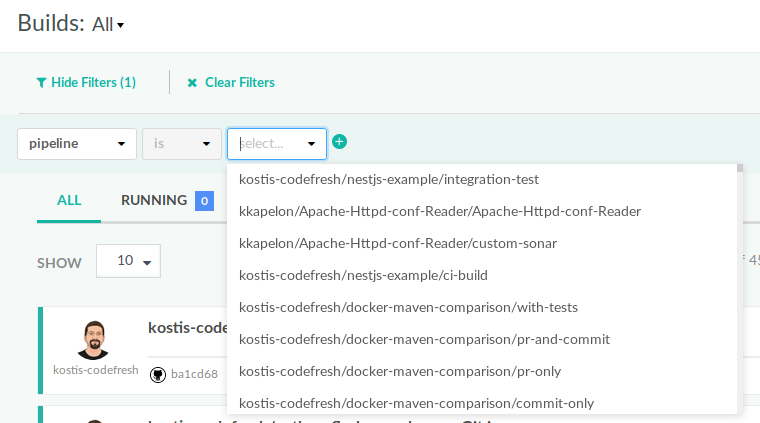
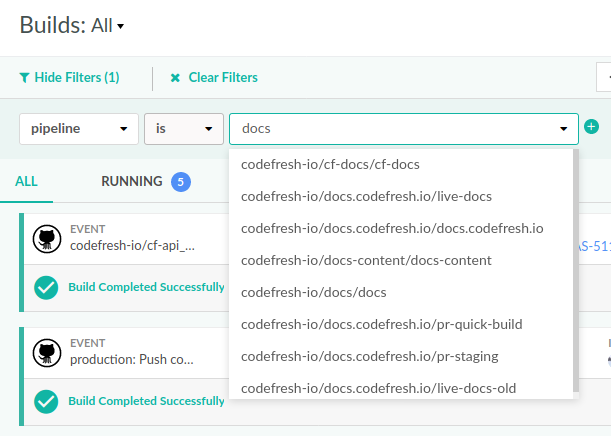
Updated screenshots for new build view

diff --git a/_docs/configure-ci-cd-pipeline/monitoring-pipelines.md b/_docs/configure-ci-cd-pipeline/monitoring-pipelines.md
@@ -23,8 +23,8 @@ lightbox="true"
 file="/images/pipeline/monitoring/builds.png" 
 url="/images/pipeline/monitoring/builds.png"
 alt="Pipeline Activity in Codefresh" 
-caption="Pipeline activity (click to enlarge)"
-max-width="60%"
+caption="Pipeline activity"
+max-width="80%"
 %}
 
 By default, it shows all builds that happening in Codefresh. To narrow the list you can use the filters on the top
@@ -49,8 +49,8 @@ lightbox="true"
 file="/images/pipeline/monitoring/filtering.png" 
 url="/images/pipeline/monitoring/filtering.png"
 alt="Pipeline filters in Codefresh" 
-caption="Available filters (click to enlarge)"
-max-width="40%"
+caption="Available filters"
+max-width="50%"
 %}
 
 The available filters are:
@@ -61,8 +61,10 @@ The available filters are:
 * *Type* - build, [launch a test environment]({{site.baseurl}}/docs/getting-started/on-demand-environments/#launching-a-docker-image-using-codefresh).
 * *Branch* - any of the available branches from the attached Git trigger.
 * *Committer* - person that made the commit that triggered the build.
+* *Environment* - which [environment]({{site.baseurl}}/docs/deploy-to-kubernetes/environment-dashboard/) was affected.
 * *Status* - success, error, in-progress, pending, terminated etc.
-
+* *Trigger type* - what type of trigger was responsible for this build
+* *Git event* - in the case of [git triggers]({{site.baseurl}}/docs/configure-ci-cd-pipeline/triggers/git-triggers/) the exact event
 
 Notice that all filters are multiple-choice so you can select multiple values for each filter category.
 At any given point you can see all the active filters on top of the screen.
@@ -73,8 +75,8 @@ lightbox="true"
 file="/images/pipeline/monitoring/possible-filters.png" 
 url="/images/pipeline/monitoring/possible-filters.png"
 alt="Pipeline filters in Codefresh" 
-caption="Active filters (click to enlarge)"
-max-width="40%"
+caption="Active filters"
+max-width="50%"
 %}
 
 You can easily remove active filters, by clicking on them and adding/removing values.
@@ -93,7 +95,7 @@ file="/images/pipeline/monitoring/build-view-selection.png"
 url="/images/pipeline/monitoring/build-view-selection.png"
 alt="Build View selection" 
 caption="Build View selection (click to enlarge)"
-max-width="40%"
+max-width="50%"
 %}
 
 You can delete existing build-views by clicking on the *manage views* button.
@@ -103,7 +105,7 @@ You can change the filters of an existing build view by making a new filter sele
 ### Build details
 
 
-For each individual build you can see several details such as the git hash, the person that made the commit, the pipeline that was triggered as well as how much time it took. On the right side you can see the docker images that belong to this pipeline, the `codefresh.yml` file that was executed behind the scenes as well as the logs (explained later on).
+For each individual build you can see several details such as the git hash, the person that made the commit, the pipeline that was triggered as well as how much time it took. For each event type you will also see additional context related information.
 
 {% include 
 image.html 
@@ -112,7 +114,7 @@ file="/images/pipeline/monitoring/build-details.png"
 url="/images/pipeline/monitoring/build-details.png"
 alt="build details in Codefresh" 
 caption="Build details (click to enlarge)"
-max-width="80%"
+max-width="100%"
 %}
 
 There are also two extra options if you click the small "3-dot" menu button on the right. You can rebuild a pipeline or launch a [test environment]({{site.baseurl}}/docs/getting-started/on-demand-environments/#launching-a-docker-image-using-codefresh) from the resulting Docker image.
